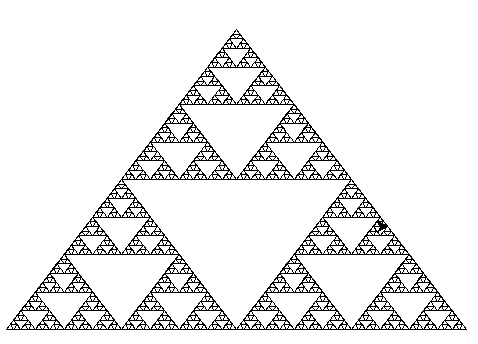
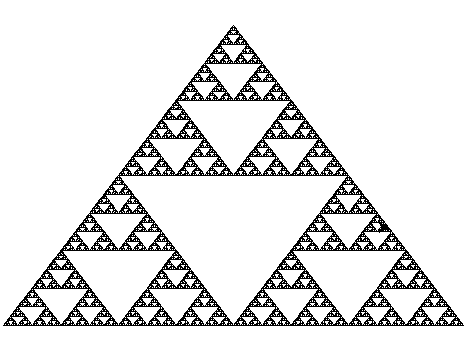
update

Changed region(s): [[0.0, 0.0581, 0.9809, 0.9593]]

diff --git a/triangle_Serp.py b/triangle_Serp.py
@@ -2,6 +2,7 @@ import turtle as tr
 
 def triangle(points, myTurtle):
     # draws a triangle
+    myTurtle.speed(100)
     myTurtle.up()
     myTurtle.goto(points[0][0], points[0][1])
     myTurtle.down()
@@ -30,7 +31,7 @@ def main():
     myWin = tr.Screen()
     points = [[0, 0], [-230, -300], [230, -300]]
     # deeper
-    degree = 5
+    degree = 7
     sierpinski(points, degree, myTurtle)
     myWin.exitonclick()
 main()

diff --git a/tree.py b/tree.py
@@ -1,0 +1,22 @@
+import turtle as tr
+
+tree = tr.Turtle()
+tree.left(90)
+tree.speed(100)
+myWin = tr.Screen()
+
+# recursion
+def draw(num):
+	if (num < 10):
+		return
+	else:
+		tree.forward(num)
+		tree.left(30)
+		draw(4 * num/5)
+		tree.right(60)
+		draw(4 * num/5)
+		tree.left(30)
+		tree.backward(num)
+
+draw(100)
+myWin.exitonclick()
